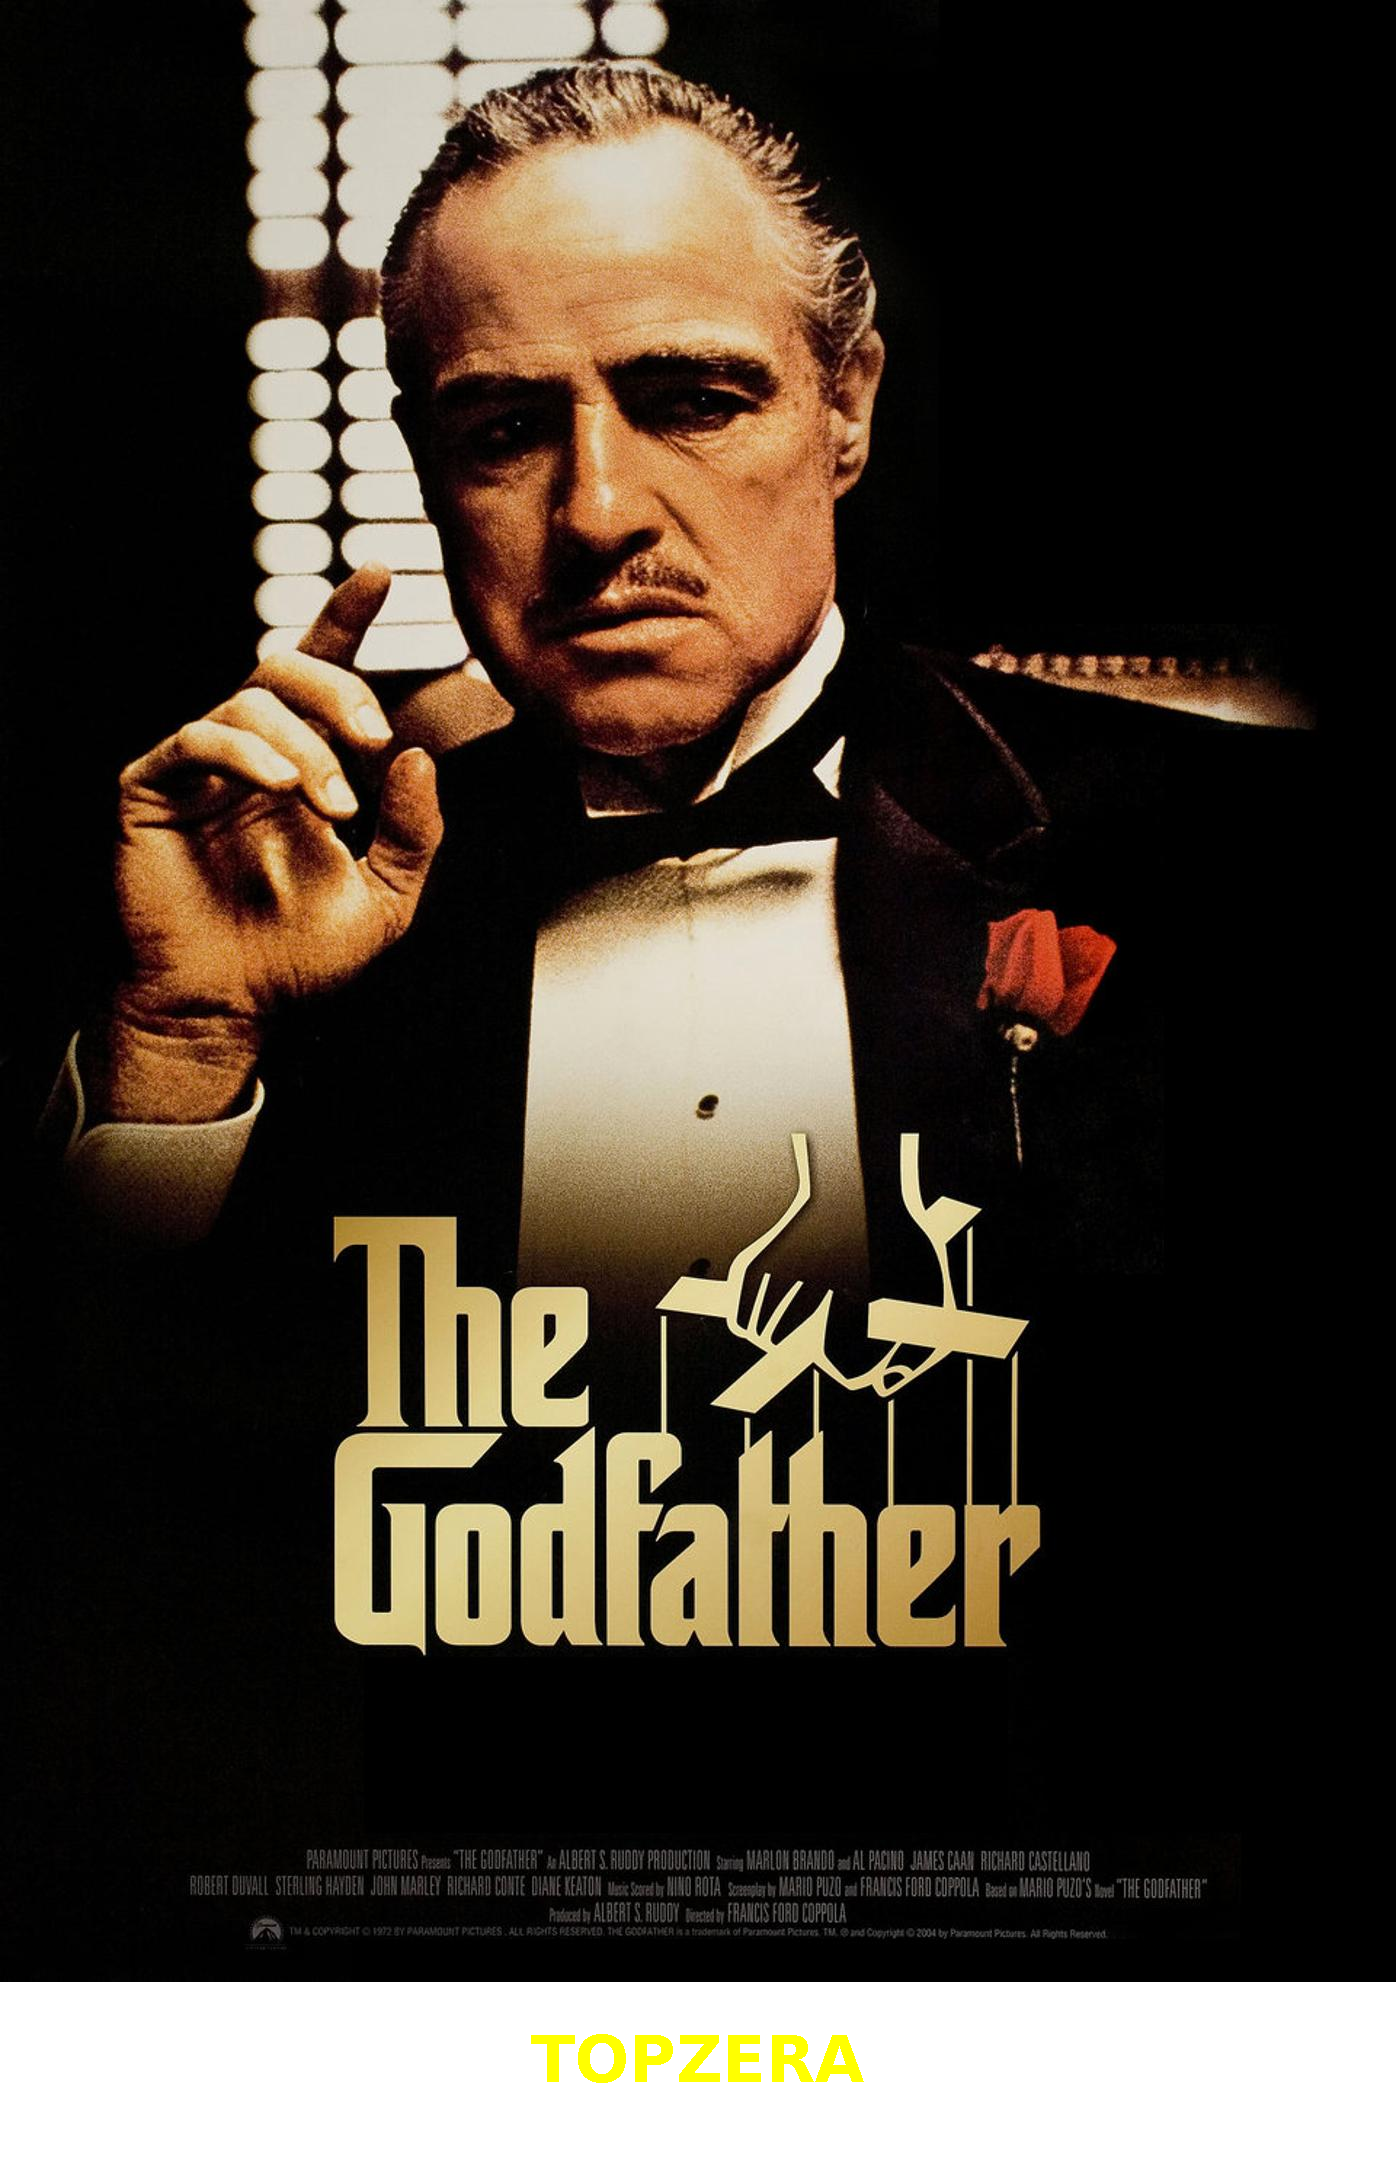
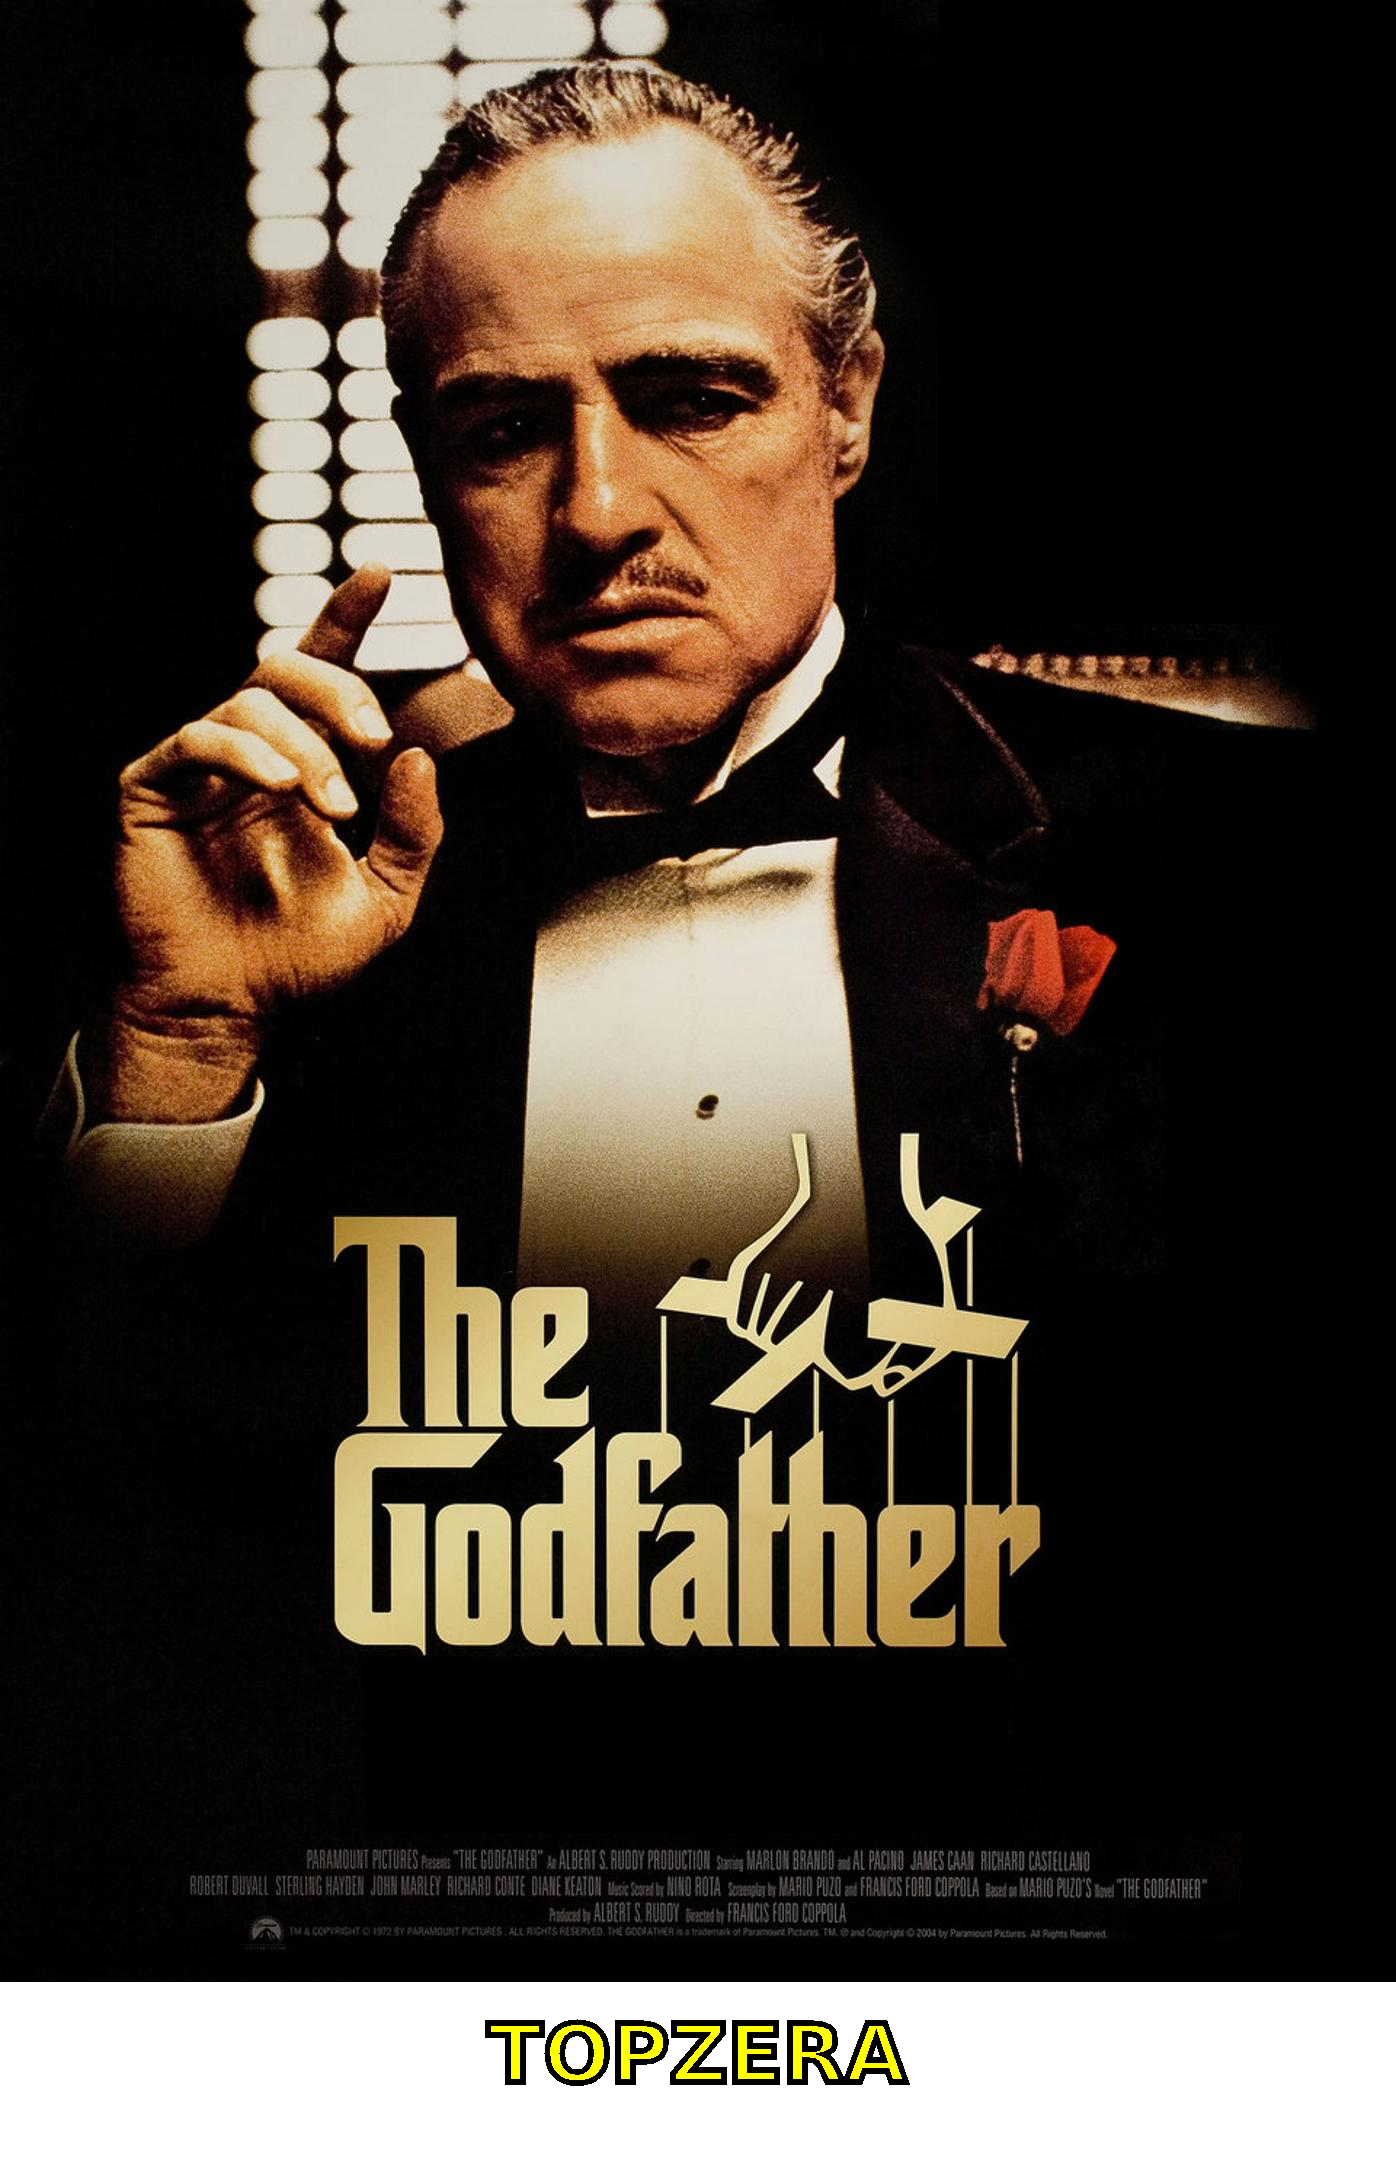
Feito o desafio 3 e 4 da aula 2

Changed region(s): [[0.3388, 0.9038, 0.6468, 0.9661]]

diff --git a/src/GeradoraDeFigurinhas.java b/src/GeradoraDeFigurinhas.java
@@ -1,11 +1,17 @@
+import java.awt.BasicStroke;
 import java.awt.Color;
 import java.awt.Font;
 import java.awt.FontMetrics;
 import java.awt.Graphics2D;
+import java.awt.Shape;
+import java.awt.font.FontRenderContext;
+import java.awt.font.TextLayout;
+import java.awt.geom.AffineTransform;
 import java.awt.geom.Rectangle2D;
 import java.awt.image.BufferedImage;
 import java.io.File;
 import java.io.InputStream;
+import java.awt.BasicStroke;
 
 
 
@@ -34,7 +40,7 @@ public class GeradoraDeFigurinhas {
     graphics.drawImage(imagemOriginal, 0, 0, null);
 
     // Configura uma fonte
-    var fonte = new Font(Font.SANS_SERIF, Font.BOLD, 64);
+    var fonte = new Font(Font.SANS_SERIF, Font.BOLD, 80);
     graphics.setColor(Color.YELLOW);
     graphics.setFont(fonte);
 
@@ -44,7 +50,21 @@ public class GeradoraDeFigurinhas {
     Rectangle2D retangulo = fontMetrics.getStringBounds(texto, graphics);
     int larguraTexto = (int) retangulo.getWidth();
     int posicaoTextoX =  (largura - larguraTexto) / 2;
-    graphics.drawString(texto, posicaoTextoX, novaAltura - 100);
+    int posicaoTextoY = novaAltura - 100;
+    graphics.drawString(texto, posicaoTextoX, posicaoTextoY);
+
+    FontRenderContext fontRenderContext = graphics.getFontRenderContext();
+    var textLayout =  new TextLayout(texto, fonte, fontRenderContext);
+    Shape outline =  textLayout.getOutline(null);
+    AffineTransform transform =  graphics.getTransform();
+    transform.translate(posicaoTextoX, posicaoTextoY);
+    graphics.setTransform(transform);
+
+    var outlineStroke = new BasicStroke(largura * 0.004f);
+    graphics.setStroke(outlineStroke);
+    graphics.setColor(Color.BLACK);
+    graphics.draw(outline);
+    graphics.setClip(outline);
 
     // Escrever nova imagem em um arquivo
     ImageIO.write(novaImagem, "png", new File(nomeArquivo));
